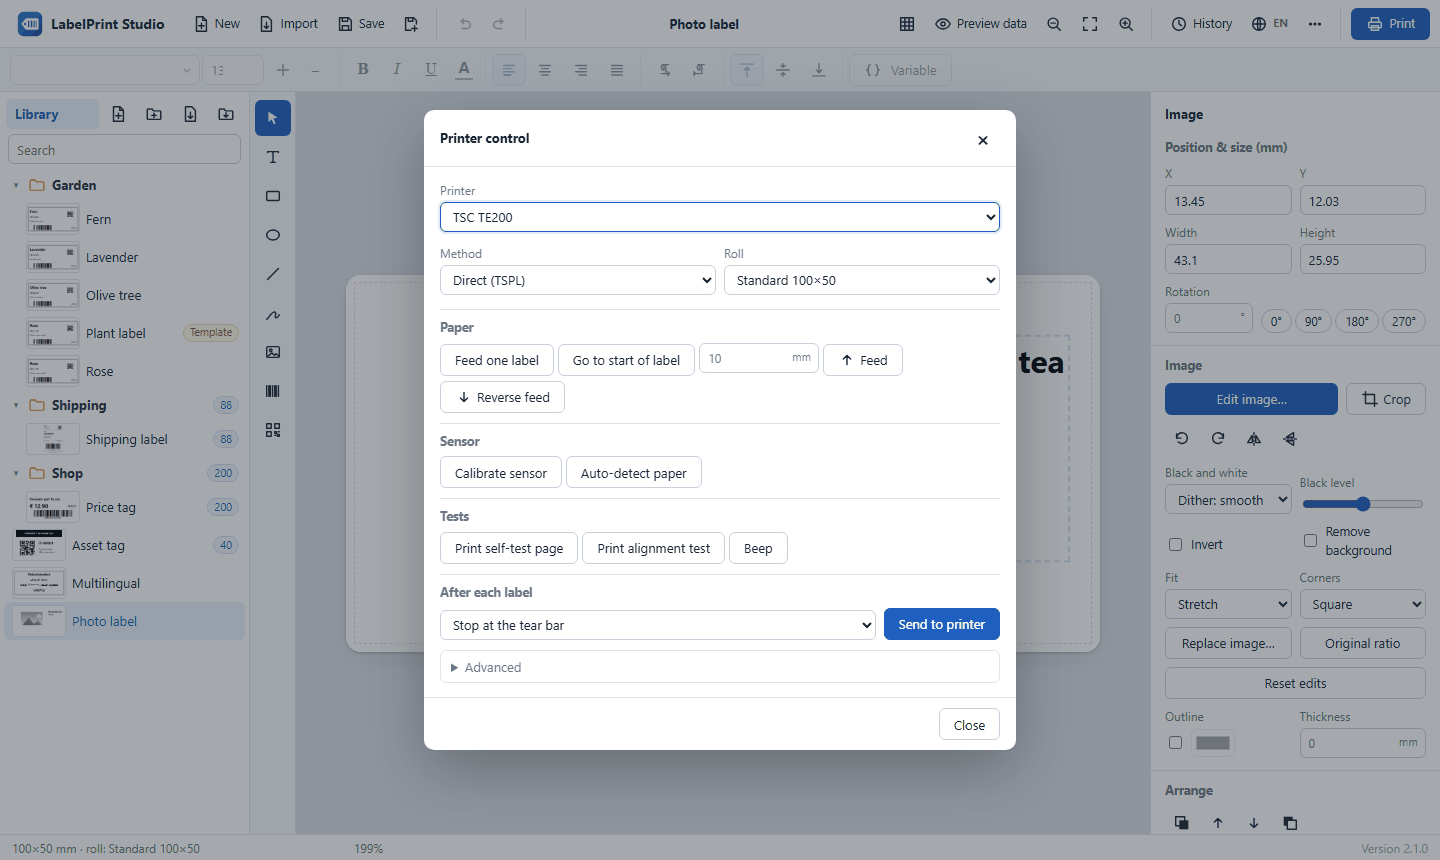
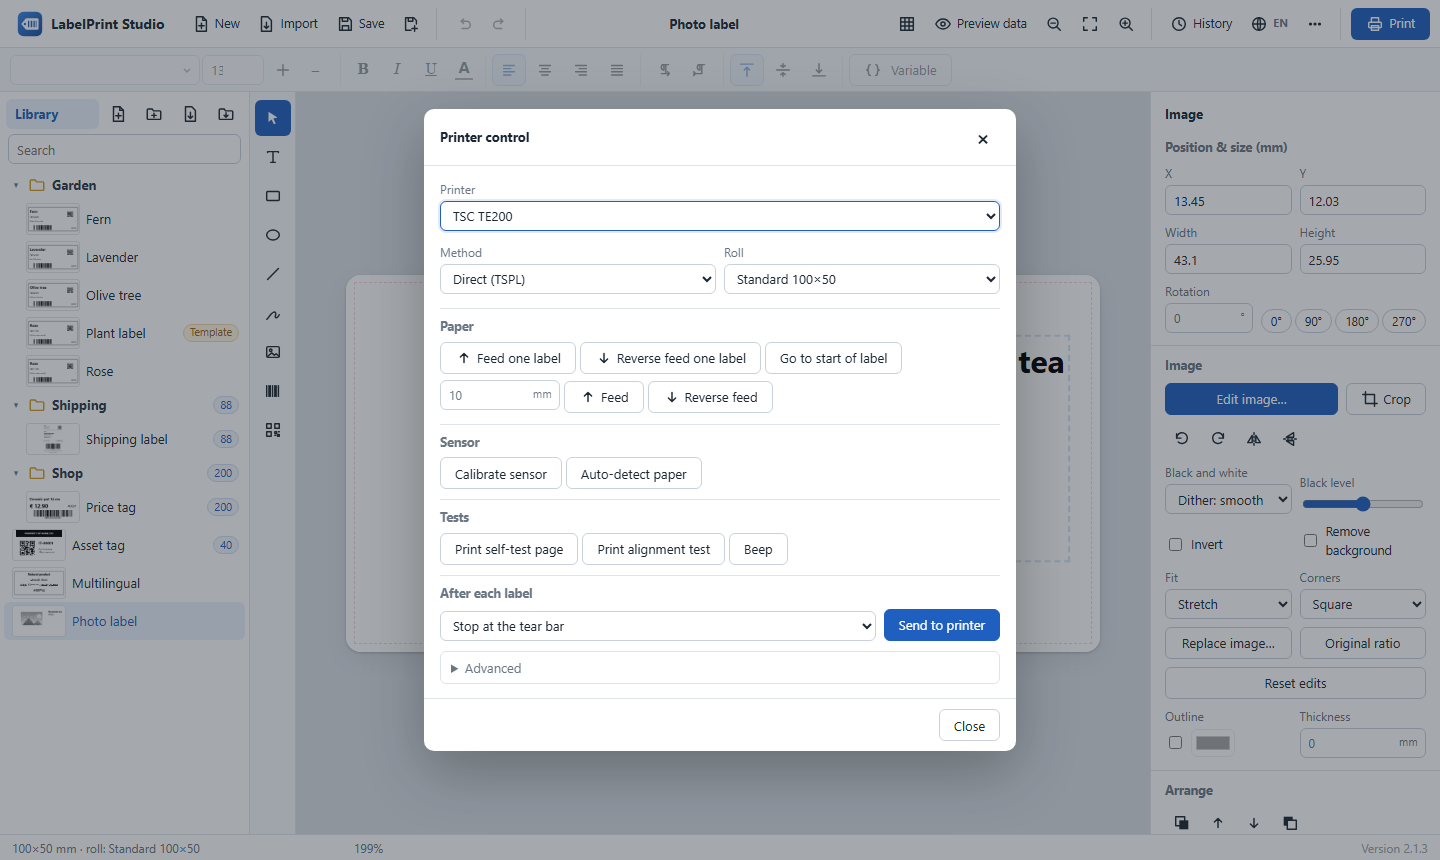
Printer control: reverse feed one label
- New "Reverse feed one label" button: TSPL has no command for it, so it
  sends BACKFEED with the selected roll's label height plus its gap or
  black mark, in printer dots.
- One-label moves and distance moves sit on separate rows.
- README images refreshed; version 2.1.3.

diff --git a/web/js/printercontrol.js b/web/js/printercontrol.js
@@ -73,18 +73,21 @@ export async function openPrinterControl(printerName, mediaId) {
     } catch (e) { toast(e.message, 'error', 7000); }
   };
 
-  const group = (title, ...kids) => h('section', { class: 'pc-group' }, h('h4', {}, title), h('div', { class: 'btn-row wrap' }, ...kids));
+  // A titled group of buttons; given arrays, each one is a row of its own
+  const group = (title, ...kids) => h('section', { class: 'pc-group' }, h('h4', {}, title),
+    ...(Array.isArray(kids[0]) ? kids : [kids]).map((row) => h('div', { class: 'btn-row wrap' }, ...row)));
   const body = h('div', { class: 'pc' },
     h('div', { class: 'pc-top' },
       printerRow,
       netRow,
       h('div', { class: 'prow' }, field(t('print.method'), method), field(t('print.roll'), rollSel))),
     group(t('pc.paper'),
-      btn(t('pc.feedLabel'), () => send('feed')),
-      btn(t('pc.home'), () => send('home')),
-      h('span', { class: 'pc-dist' }, field(t('pc.distance'), h('span', { class: 'num-wrap' }, distance, h('em', {}, 'mm')))),
-      btn(t('pc.feedMm'), () => send('feedmm', mm()), 'btn', 'forward'),
-      btn(t('pc.backfeed'), () => send('backfeed', mm()), 'btn', 'backward')),
+      [btn(t('pc.feedLabel'), () => send('feed'), 'btn', 'forward'),
+        btn(t('pc.backLabel'), () => send('backlabel'), 'btn', 'backward'),
+        btn(t('pc.home'), () => send('home'))],
+      [h('span', { class: 'pc-dist' }, field(t('pc.distance'), h('span', { class: 'num-wrap' }, distance, h('em', {}, 'mm')))),
+        btn(t('pc.feedMm'), () => send('feedmm', mm()), 'btn', 'forward'),
+        btn(t('pc.backfeed'), () => send('backfeed', mm()), 'btn', 'backward')]),
     group(t('pc.sensor'),
       btn(t('media.calibrate'), () => send('calibrate', {}, 'media.calibrateSent')),
       btn(t('pc.autodetect'), () => send('autodetect', {}, 'media.calibrateSent'))),

diff --git a/app/printing.py b/app/printing.py
@@ -106,6 +106,12 @@ def _dots(s: dict) -> int:
     return max(1, min(9999, round(mm * float(s.get("dpi", 203)) / 25.4)))
 
 
+def _label_pitch(s: dict) -> int:
+    """One label (one row) plus the gap or black mark after it, in printer dots."""
+    gap = 0 if s.get("media") == "continuous" else float(s.get("gap", 2))
+    return _dots({**s, "mm": float(s.get("stockH") or 50) + gap})
+
+
 def _finish_switch(s: dict) -> list[str]:
     mode = s.get("finish") or "tear"
     if mode not in FINISH_SWITCH:
@@ -129,6 +135,7 @@ COMMANDS = {
     "feed": (True, lambda s: ["FORMFEED"]),                      # feed one label (one row)
     "feedmm": (True, lambda s: [f"FEED {_dots(s)}"]),             # feed a distance
     "backfeed": (True, lambda s: [f"BACKFEED {_dots(s)}"]),       # reverse feed a distance
+    "backlabel": (True, lambda s: [f"BACKFEED {_label_pitch(s)}"]),  # reverse feed one label (TSPL has no command for it)
     "home": (True, lambda s: ["HOME"]),                          # move to the start of the next label
     # Calibrate the gap or black-mark sensor for a new roll
     "calibrate": (True, lambda s: ["BLINEDETECT" if s.get("media") == "bline" else "GAPDETECT"]),

diff --git a/tests/test_printing.py b/tests/test_printing.py
@@ -66,6 +66,11 @@ def test_printer_control_commands():
     assert printing.tspl_command("feedmm", {**roll, "mm": 10}).endswith(b"FEED 80\r\n")
     assert printing.tspl_command("backfeed", {**roll, "mm": 10, "dpi": 300}).endswith(b"BACKFEED 118\r\n")
     assert printing.tspl_command("backfeed", roll | {"mm": 5}).startswith(b"SIZE 100 mm,50 mm\r\nGAP 2 mm,0 mm\r\n")
+    # Back one label: the label plus its gap or black mark (52 mm = 416 dots at 203 dpi); a continuous roll has none
+    assert printing.tspl_command("backlabel", roll).endswith(b"BACKFEED 416\r\n")
+    assert printing.tspl_command("backlabel", roll | {"dpi": 300}).endswith(b"BACKFEED 614\r\n")
+    assert printing.tspl_command("backlabel", roll | {"media": "bline", "gap": 3}).endswith(b"BLINE 3 mm,0 mm\r\nBACKFEED 424\r\n")
+    assert printing.tspl_command("backlabel", roll | {"media": "continuous"}).endswith(b"GAP 0,0\r\nBACKFEED 400\r\n")
     assert printing.tspl_command("home", roll).endswith(b"HOME\r\n")
     assert printing.tspl_command("autodetect", roll).endswith(b"AUTODETECT\r\n")
     # Commands that do not depend on the roll are sent alone

diff --git a/tests/e2e/test_ui.py b/tests/e2e/test_ui.py
@@ -231,12 +231,21 @@ def test_test_print_shift_and_printer_control(page, app_url):
     pc.locator("input[placeholder='192.168.1.50']").fill("127.0.0.1")
     pc.locator("label.field", has=page.locator("span", has_text="Port")).locator("input").fill(str(port))
     pc.locator(".pc-dist input").fill("5")
-    pc.locator("button", has_text="Reverse feed").click()
+    pc.get_by_role("button", name="Reverse feed", exact=True).click()
     for _ in range(50):
         if b"BACKFEED 40" in received:
             break
         time.sleep(0.1)
     assert b"BACKFEED 40\r\n" in received
+    # Back one label: the roll's label height plus its gap
+    pc.get_by_role("button", name="Reverse feed one label").click()
+    one = re.compile(rb"SIZE [\d.]+ mm,([\d.]+) mm\r\nGAP ([\d.]+) mm,[\d.]+ mm\r\nBACKFEED (\d+)\r\n")
+    for _ in range(50):
+        if len(one.findall(received)) > 1:
+            break
+        time.sleep(0.1)
+    label_h, gap, dots = one.findall(received)[-1]
+    assert int(dots) == round((float(label_h) + float(gap)) * 203 / 25.4) != 40
 
 
 def test_folder_names_keep_slash_and_star(page, app_url):

diff --git a/app/meta.py b/app/meta.py
@@ -2,7 +2,7 @@
 
 APP_NAME = "LabelPrint Studio"
 APP_ID = "LabelPrintStudio"             # used for file names and the per-user data folder
-VERSION = "2.1.2"
+VERSION = "2.1.3"
 AUTHOR = "Amirhossein Arani"
 REPO_URL = "https://github.com/a-Arani/labelprint-studio"
 LICENSE = "MIT"

diff --git a/README.md b/README.md
@@ -124,7 +124,7 @@ The preview shows the shift live and warns you if any part would fall off the la
 
 ### Full printer control
 
-Everything you would do on the printer itself, from your desk: **feed** one label or any distance, **reverse feed**, go to the start of the label, **calibrate** the gap or black-mark sensor, print the **self-test page** or an **alignment test with millimetre rulers**, **beep** to find the printer, and switch between **tear-off, peel-off and cutter** modes. Power users can send any **TSPL command**.
+Everything you would do on the printer itself, from your desk: **feed** one label or any distance, **reverse feed** one label or any distance, go to the start of the label, **calibrate** the gap or black-mark sensor, print the **self-test page** or an **alignment test with millimetre rulers**, **beep** to find the printer, and switch between **tear-off, peel-off and cutter** modes. Power users can send any **TSPL command**.
 
 </td>
 <td><img src="docs/images/printer-control.png" alt="Printer control: feed, reverse feed, calibrate sensor, self-test, alignment test, tear-off, peel-off and cutter modes"></td>
@@ -185,7 +185,7 @@ Labels are rendered at the printer's resolution (203, 300 or 600 dpi) in sharp b
 
 You do **not** need to install Python or anything else; everything is included.
 
-1. Open the **[latest release](https://github.com/a-Arani/labelprint-studio/releases/latest)** and download **`LabelPrintStudio-v2.1.2-win64.zip`** under *Assets*.
+1. Open the **[latest release](https://github.com/a-Arani/labelprint-studio/releases/latest)** and download **`LabelPrintStudio-v2.1.3-win64.zip`** under *Assets*.
 2. Right-click the downloaded file → **Extract All…** and extract it to a permanent folder, for example `C:\LabelPrintStudio`.
 3. Open the extracted folder and double-click **`Create Desktop Shortcut.bat`** (only once).
 4. Start **LabelPrint Studio** from the new desktop shortcut.
@@ -251,7 +251,7 @@ Double-click the picture to open the image editor. For logos and text choose **B
 <details>
 <summary><b>Can I feed or reverse-feed the paper from the app?</b></summary>
 
-Yes. Open **⋯ → Printer control…** to feed one label or any distance, reverse feed, calibrate the sensor, print the self-test page or an alignment test, and switch tear-off, peel-off or cutter mode. This works with TSC and other TSPL printers (Direct or Network method).
+Yes. Open **⋯ → Printer control…** to feed one label or any distance, reverse feed one label or any distance, calibrate the sensor, print the self-test page or an alignment test, and switch tear-off, peel-off or cutter mode. This works with TSC and other TSPL printers (Direct or Network method).
 </details>
 
 <details>

diff --git a/CHANGELOG.md b/CHANGELOG.md
@@ -3,6 +3,14 @@
 All notable changes to this project are documented here.
 The format follows [Keep a Changelog](https://keepachangelog.com/en/1.1.0/) and the project uses [Semantic Versioning](https://semver.org/).
 
+## [2.1.3] - 2026-10-27
+
+### Added
+- Printer control: **Reverse feed one label** pulls the paper back by exactly one label and its gap (or black mark), taken from the selected roll. TSPL has no command for this, so it is sent as `BACKFEED` with that length.
+
+### Changed
+- Printer control: one-label moves and distance moves are on separate rows.
+
 ## [2.1.2] - 2026-10-27
 
 ### Fixed
@@ -71,6 +79,7 @@ First public release as **LabelPrint Studio**.
 - Folders, variables (counters, dates, text, lists, Excel/CSV tables).
 - Printing to TSC/TSPL printers directly, through any Windows printer driver, or over the network.
 
+[2.1.3]: https://github.com/a-Arani/labelprint-studio/releases/tag/v2.1.3
 [2.1.2]: https://github.com/a-Arani/labelprint-studio/releases/tag/v2.1.2
 [2.1.1]: https://github.com/a-Arani/labelprint-studio/releases/tag/v2.1.1
 [2.1.0]: https://github.com/a-Arani/labelprint-studio/releases/tag/v2.1.0
